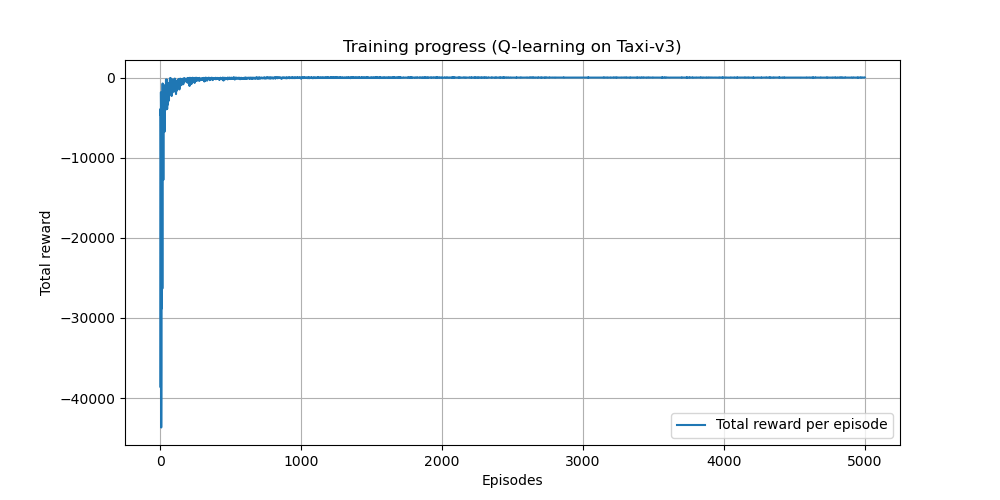
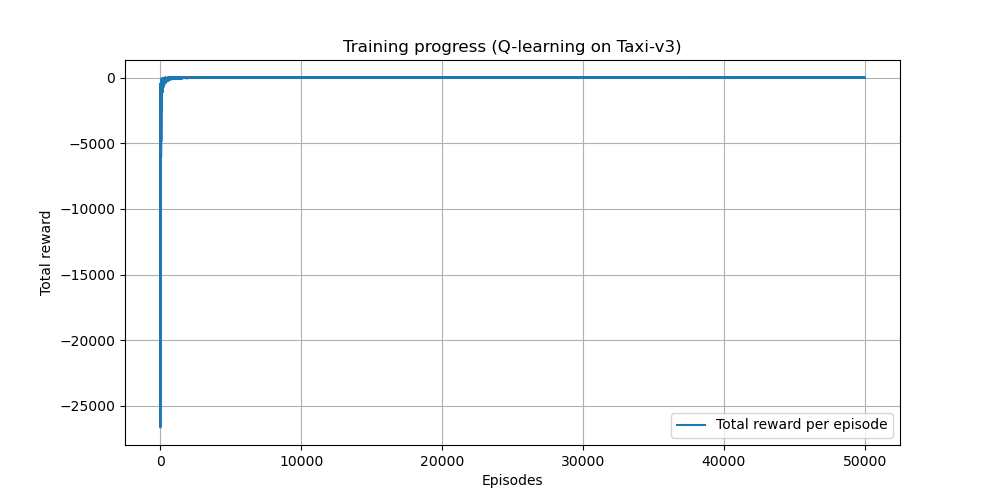
Update for better metrics

diff --git a/src/evaluate.py b/src/evaluate.py
@@ -1,3 +1,40 @@
+import numpy as np
+
+def evaluate_agent(env, agent, episodes=100):
+    total_rewards = []
+    for _ in range(episodes):
+        state, info = env.reset()
+        done = False
+        total_reward = 0
+
+        while not done:
+            action = np.argmax(agent.q_table[state])  # always exploit
+            state, reward, terminated, truncated, info = env.step(action)
+            done = terminated or truncated
+            total_reward += reward
+
+        total_rewards.append(total_reward)
+
+    avg_reward = sum(total_rewards) / episodes
+    print(f"Average reward over {episodes} episodes: {avg_reward:.2f}")
+    return avg_reward
+
+def success_rate(env, agent, episodes=100):
+    successes = 0
+    for _ in range(episodes):
+        state, info = env.reset()
+        done = False
+        while not done:
+            action = np.argmax(agent.q_table[state])
+            state, reward, terminated, truncated, info = env.step(action)
+            done = terminated or truncated
+            if reward == 20:  # +20 reward = successful drop
+                successes += 1
+                break
+    rate = successes / episodes
+    print(f"Success rate: {rate*100:.2f}%")
+    return rate
+
 def evaluate(env, agent, episodes=5):
     for _ in range(episodes):
         state = env.reset()[0]

diff --git a/main.py b/main.py
@@ -3,7 +3,7 @@ import numpy as np
 
 from src.environment import make_env, make_env_human
 from src.train import train, retrain
-from src.evaluate import evaluate
+from src.evaluate import evaluate, evaluate_agent, success_rate
 from src.utils import plot_rewards, save_q_table, load_q_table
 from src.agent import QLearningAgent
 
@@ -35,6 +35,8 @@ def main():
 
     # --- Evaluate agent ---
     print("[INFO] Starting evaluation...")
+    evaluate_agent(env, agent)
+    success_rate(env, agent)
     evaluate(env_test, agent)
 
 if __name__ == "__main__":

diff --git a/config/params.py b/config/params.py
@@ -3,7 +3,7 @@ GAMMA = 0.9       # Discount factor
 EPSILON = 1.0     # Initial exploration
 EPSILON_MIN = 0.05
 EPSILON_DECAY = 0.999
-EPISODES = 5000   # Number of episodes
+EPISODES = 50000   # Number of episodes
 
 MODEL_PATH = "models/q_table.npy"
 RESULTS_DIR = "results"
